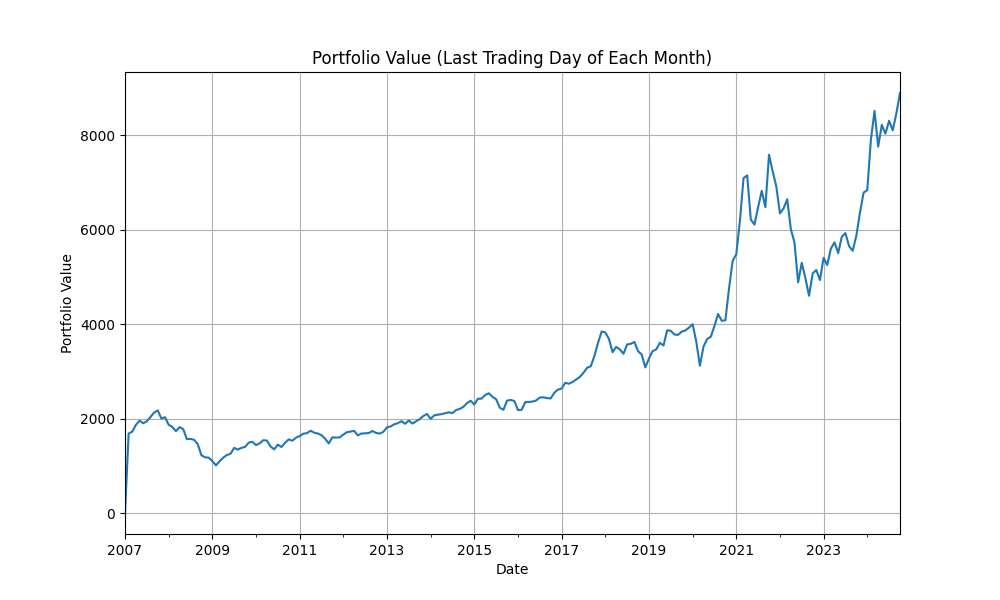
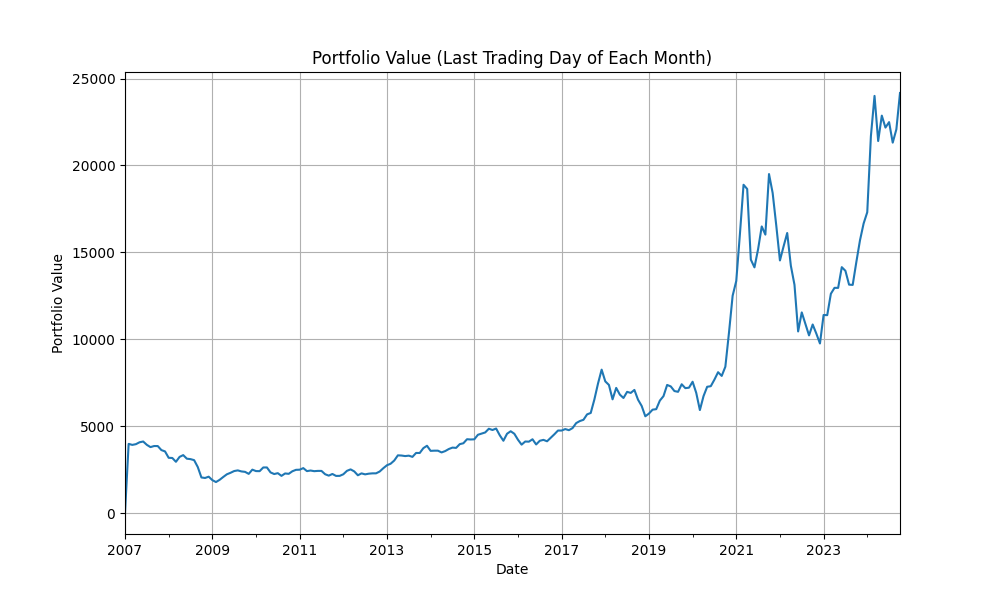
backtest fixed invest

diff --git a/backtest.py b/backtest.py
@@ -2,119 +2,238 @@ import yfinance as yf
 import pandas as pd
 import numpy as np
 import matplotlib.pyplot as plt
+import json
+from numpy_financial import irr
+import re
+# Load portfolio configuration from JSON file
+with open('config.json', 'r') as file:
+    portfolio_config = json.load(file)
 
 # Define debug log function
 def debug_log(message):
     print(f"[DEBUG] {message}")
 
+
 # Download data
-symbols = ['^GSPC', '^DJI', 'QQQ', 'BTC-USD',  'GLD', 'TLT', '000001.SS', 'SPY', 'VTI', 'VNQ', 'DBC', 'XLY']  # Add selected assets
-prices = {}
+def download_data(symbols, start_date, end_date):
+    prices = {}
+    for symbol in symbols:
+        data = yf.download(symbol, start=start_date, end=end_date)
+        prices[symbol] = data['Adj Close']
+        
+        # 打印每个资产的最早交易日期
+        earliest_date = data.index.min()
+        debug_log(f"Asset: {symbol} - Earliest Trading Date: {earliest_date}")
+    
+    return prices
 
-debug_log("Starting to download data...")
-for symbol in symbols:
-    debug_log(f"Downloading data for {symbol}...")
-    data = yf.download(symbol, start='2007-01-01', end='2024-10-31')
-    prices[symbol] = data['Adj Close']  # Only take adjusted close prices
-    debug_log(f"{symbol} data download complete, length of data: {len(data)}")
 
-# Get the last trading day of each month
-last_trading_days = prices['^GSPC'].resample('M').last().index  # Get the last trading day of each month
+# 计算总投入和总回报
+def calculate_total_investment_and_return(portfolio_value, monthly_investment):
+    # 计算投资的月份数
+    investment_months = len(portfolio_value)
+    
+    # 总投入 = 每月投资额 * 投资的月份数
+    total_investment = monthly_investment * investment_months
+    
+    # 总回报 = 最终组合的价值 - 总投入
+    total_value = portfolio_value.iloc[-1]  # 最终组合的资产总值
+    total_return = total_value - total_investment  # 总回报
+    
+    return total_investment, total_return
 
-# Initialize the DataFrame for monthly closing prices
-monthly_investment_df = pd.DataFrame(index=last_trading_days)
+# Calculate money-weighted return (MWR)
+def calculate_money_weighted_return(portfolio_value, investment_amounts, investment_dates):
+    cash_flows = [-amount for amount in investment_amounts]  # Cash flows are negative for investments
+    cash_flows.append(portfolio_value[-1])  # Final cash flow is the portfolio value
+    # 将最后一个日期转换为 DatetimeIndex，然后追加
+    cash_flow_dates = investment_dates.append(pd.to_datetime([portfolio_value.index[-1]]))  # 使用列表包裹最后一个日期
 
-debug_log("Starting to calculate the last trading day close prices for each month...")
-for symbol in symbols:
-    try:
-        debug_log(f"Calculating the monthly last trading day close price for {symbol}...")
+    return irr(cash_flows)
+
+# Calculate time-weighted return (TWR)
+def calculate_time_weighted_return(portfolio_value):
+    time_weighted_return = 1.0
+    for i in range(1, len(portfolio_value)):
+        period_return = portfolio_value.iloc[i] / portfolio_value.iloc[i-1] - 1
+        time_weighted_return *= (1 + period_return)
+    return time_weighted_return - 1
+
+# Calculate monthly close
+def calculate_monthly_close(prices, symbols):
+    last_trading_days = prices[symbols[0]].resample('M').last().index
+    monthly_investment_df = pd.DataFrame(index=last_trading_days)
+    for symbol in symbols:
         monthly_close = prices[symbol].resample('M').last()
         monthly_investment_df[symbol + ' Monthly Close'] = monthly_close
-        debug_log(f"{symbol} monthly last trading day close price calculation complete, first 5 rows:\n{monthly_close.head()}")
-    except Exception as e:
-        debug_log(f"Error processing {symbol}: {e}")
+    return monthly_investment_df
 
-# Calculate portfolio value
-investment_ratios = {
-    '^GSPC': 0.10,    # S&P 500
-    '^DJI': 0.10,     # Dow Jones
-    'QQQ': 0.10,      # Nasdaq 100
-    'BTC-USD': 0.05,  # Bitcoin
-    'GLD': 0.05,      # Gold
-    'TLT': 0.05,      # US Long-Term Treasuries
-    '000001.SS': 0.10, # Shanghai Composite Index
-    'SPY': 0.10,      # SPDR S&P 500 ETF
-    'VTI': 0.05,      # Vanguard Total Stock Market ETF
-    'VNQ': 0.10,      # Vanguard Real Estate ETF
-    'DBC': 0.05,      # Invesco DB Commodity Index Tracking Fund (Commodities)
-    'XLY': 0.05,      # Consumer discretionary sector (used as a representative for tech and consumer goods ETFs)
-}
+# Calculate portfolio value with monthly investment
+def calculate_portfolio_value_with_monthly_investment(monthly_investment_df, investment_ratios, last_trading_days, monthly_investment):
+    portfolio_value = pd.Series(index=last_trading_days, dtype=np.float64)
+    portfolio_value.iloc[0] = 1  # Initial investment is 1 (can be replaced with another initial amount)
+    
+    # Track the holdings of each asset
+    holdings = {symbol: 0 for symbol in investment_ratios}
 
-debug_log("Starting to calculate portfolio value...")
+    for i in range(1, len(last_trading_days)):
+        # Monthly investment contribution
+        monthly_contribution = monthly_investment
+        
+        # Distribute the monthly investment according to the asset ratios
+        for symbol, ratio in investment_ratios.items():
+            monthly_close = monthly_investment_df[symbol + ' Monthly Close'].iloc[i]
+            if pd.notna(monthly_close):
+                contribution = monthly_contribution * ratio  # Amount to invest in this asset
+                holdings[symbol] += contribution / monthly_close  # Update the holdings
 
-# Set initial capital
-portfolio_value = pd.Series(index=last_trading_days, dtype=np.float64)
-portfolio_value.iloc[0] = 1  # Initial investment is 1 (can be replaced with another initial amount)
+        # Calculate total portfolio value
+        total_value = sum(holdings[symbol] * monthly_investment_df[symbol + ' Monthly Close'].iloc[i] for symbol in investment_ratios)
+        portfolio_value.iloc[i] = total_value
 
-# Calculate portfolio value at the last trading day of each month
-for i in range(1, len(last_trading_days)):
-    value = 0
-    for symbol, ratio in investment_ratios.items():
-        monthly_close = monthly_investment_df[symbol + ' Monthly Close'].iloc[i]
-        if pd.notna(monthly_close):
-            value += ratio * monthly_close
-    portfolio_value.iloc[i] = value
-    debug_log(f"Portfolio value on {last_trading_days[i]}: {portfolio_value.iloc[i]}")
+    return portfolio_value, holdings  # Return portfolio value and holdings
+    
 
-# Plot and save the portfolio value graph
-debug_log("Plotting portfolio value graph...")
+
+# Performance metrics calculations
+def calculate_performance_metrics(portfolio_value, risk_free_rate):
+    debug_log(f"Risk-Free Rate: {risk_free_rate * 100}%")
+    total_return = (portfolio_value[-1] / portfolio_value[0]) - 1
+    annualized_return = (1 + total_return) ** (1 / len(portfolio_value)) - 1
+    drawdown = portfolio_value / portfolio_value.cummax() - 1
+    max_drawdown = drawdown.min()
+
+    daily_returns = portfolio_value.pct_change().dropna()
+    annualized_volatility = daily_returns.std() * np.sqrt(252)
+    debug_log(f"Annualized volatility: {annualized_volatility}")
+    debug_log(f"annualized return: {annualized_return}")
+    debug_log(f"risk_free_rate: {risk_free_rate}")
+    sharpe_ratio = (annualized_return - risk_free_rate) / annualized_volatility
+
+    drawdown_start = drawdown.idxmax()
+    drawdown_end = drawdown.idxmin()
+    pre_drawdown_peak = portfolio_value[:drawdown_end].max()
+    recovery_candidates = portfolio_value[drawdown_end:][portfolio_value[drawdown_end:] >= pre_drawdown_peak]
+    if not recovery_candidates.empty:
+        recovery_start = recovery_candidates.index[0]
+    else:
+        # 处理没有恢复的情况，例如设为NaT
+        recovery_start = pd.NaT
+
+    drawdown_recovery_time = recovery_start - drawdown_end
+
+    debug_log(f"Total return: {total_return:.2%}")
+    debug_log(f"Annualized return: {annualized_return:.2%}")
+    debug_log(f"Maximum drawdown: {max_drawdown:.2%}")
+    debug_log(f"Sharpe ratio: {sharpe_ratio:.2f}")
+    debug_log(f"Drawdown recovery time: {drawdown_recovery_time.days} days")
+    debug_log(f"Maximum drawdown start date: {drawdown_start}")
+    debug_log(f"Maximum drawdown end date: {drawdown_end}")
+    debug_log(f"Recovery start date: {recovery_start}")
+
+    return total_return, annualized_return, max_drawdown, sharpe_ratio, drawdown_recovery_time
+
+
+def generate_safe_filename(config):
+    assets_str = '_'.join(config['assets'].keys())  # Join asset symbols with '_'
+    risk_free_str = f"rf{int(config['risk_free_rate'] * 100)}"  # Risk-free rate as percentage
+    # Create a filename string with assets and risk-free rate
+    filename = f"portfolio_{assets_str}_{risk_free_str}.png"
+    # Sanitize the filename to remove any invalid characters for OS
+    safe_filename = re.sub(r'[\\/*?:"<>|]', '_', filename)
+    return safe_filename
+
+# Use the function to generate a filename
+plot_filename = generate_safe_filename(portfolio_config)
+
+# Main execution
+symbols = list(portfolio_config['assets'].keys())
+prices = download_data(symbols, portfolio_config['start_date'], portfolio_config['end_date'])
+monthly_investment_df = calculate_monthly_close(prices, symbols)
+
+# Calculate portfolio value with monthly investment
+portfolio_value, holdings = calculate_portfolio_value_with_monthly_investment(
+    monthly_investment_df, 
+    portfolio_config['assets'], 
+    monthly_investment_df.index, 
+    portfolio_config['total_investment']  # Monthly investment from config file
+)
+
+# Calculate total investment and return
+total_investment, total_return = calculate_total_investment_and_return(portfolio_value, portfolio_config['total_investment'])
+debug_log(f"Total Investment: ${total_investment:.2f}")
+debug_log(f"Total Return: ${total_return:.2f}")
+
+# Calculate money-weighted return (MWR)
+investment_amounts = [portfolio_config['total_investment'] * ratio for ratio in portfolio_config['assets'].values()]
+investment_dates = monthly_investment_df.index
+mwr = calculate_money_weighted_return(portfolio_value, investment_amounts, investment_dates)
+debug_log(f"Money-Weighted Return (MWR): {mwr:.2%}")
+
+# Calculate time-weighted return (TWR)
+twr = calculate_time_weighted_return(portfolio_value)
+debug_log(f"Time-Weighted Return (TWR): {twr:.2%}")
+
+# Calculate Sharpe Ratio
+sharpe_ratio = calculate_performance_metrics(portfolio_value, portfolio_config['risk_free_rate'])[3]
+debug_log(f"Sharpe Ratio: {sharpe_ratio:.2f}")
+
+# Output final holdings (shares)
+debug_log("Final Asset Holdings (Shares):")
+for symbol, shares in holdings.items():
+    debug_log(f"Asset: {symbol} - Shares: {shares:.2f}")
+
+# Plotting and saving the portfolio value
 plt.figure(figsize=(10, 6))
 portfolio_value.plot()
 plt.title('Portfolio Value (Last Trading Day of Each Month)')
 plt.xlabel('Date')
 plt.ylabel('Portfolio Value')
 plt.grid(True)
-plt.savefig('portfolio_value.png')
-debug_log("Portfolio value graph saved as 'portfolio_value.png'")
 
-# Calculate performance metrics
-debug_log("Calculating performance metrics...")
+# Config text content
+# Config text content (continued)
+config_text = f"""
+Assets:
+{json.dumps(portfolio_config['assets'], indent=2)}
 
-# Total return
-total_return = (portfolio_value[-1] / portfolio_value[0]) - 1
+Start Date: {portfolio_config['start_date']}
+End Date: {portfolio_config['end_date']}
+Risk-Free Rate: {portfolio_config['risk_free_rate']*100}%
 
-# Annualized return
-annualized_return = (1 + total_return) ** (1 / len(portfolio_value)) - 1
+Total Investment: ${total_investment:.2f}
+Total Return: ${total_return:.2f}
 
-# Maximum drawdown
-drawdown = portfolio_value / portfolio_value.cummax() - 1
-max_drawdown = drawdown.min()
+Money-Weighted Return (MWR): {mwr:.2%}
+Time-Weighted Return (TWR): {twr:.2%}
+Sharpe Ratio: {sharpe_ratio:.2f}
+"""
 
-# Sharpe ratio calculation
-risk_free_rate = 0.03  # Assume the risk-free rate is 0.03
-daily_returns = portfolio_value.pct_change().dropna()  # Daily returns
-annualized_volatility = daily_returns.std() * np.sqrt(252)  # Annualized volatility
-sharpe_ratio = (annualized_return - risk_free_rate) / annualized_volatility  # Sharpe ratio
+# Adding config text to the chart
+plt.text(0.02, 0.02, config_text, ha='left', va='bottom', fontsize=10, transform=plt.gca().transAxes, 
+         bbox=dict(facecolor='white', alpha=0.7, edgecolor='black', boxstyle='round,pad=0.5'))
 
-# Find the start and end dates of the maximum drawdown
-drawdown_start = drawdown.idxmax()  # Start date of the maximum drawdown
-# Calculate drawdown recovery time
-drawdown_end = drawdown.idxmin()  # End date of the maximum drawdown
-# Find the highest point before the maximum drawdown
-pre_drawdown_peak = portfolio_value[:drawdown_end].max()
-# Find when the portfolio value recovered to the previous peak after the drawdown
-recovery_start = portfolio_value[drawdown_end:].loc[portfolio_value[drawdown_end:] >= pre_drawdown_peak].index[0]
+# Save the plot
+plt.savefig(plot_filename)
+debug_log("Portfolio value graph with configuration saved as 'portfolio_value_with_config.png'")
 
-# Calculate recovery time
-drawdown_recovery_time = recovery_start - drawdown_end  # Recovery time
+# Display the plot
+plt.show()
 
-debug_log(f"Total return: {total_return:.2%}")
-debug_log(f"Annualized return: {annualized_return:.2%}")
-debug_log(f"Maximum drawdown: {max_drawdown:.2%}")
-debug_log(f"Sharpe ratio: {sharpe_ratio:.2f}")
-debug_log(f"Drawdown recovery time: {drawdown_recovery_time.days} days")
+# Saving final report to a file
+with open('final_report.txt', 'w') as report_file:
+    report_file.write("Final Portfolio Report\n")
+    report_file.write("=====================\n\n")
+    report_file.write(f"Start Date: {portfolio_config['start_date']}\n")
+    report_file.write(f"End Date: {portfolio_config['end_date']}\n")
+    report_file.write(f"Risk-Free Rate: {portfolio_config['risk_free_rate']*100}%\n\n")
+    report_file.write(f"Total Investment: ${total_investment:.2f}\n")
+    report_file.write(f"Total Return: ${total_return:.2f}\n")
+    report_file.write(f"Money-Weighted Return (MWR): {mwr:.2%}\n")
+    report_file.write(f"Time-Weighted Return (TWR): {twr:.2%}\n")
+    report_file.write(f"Sharpe Ratio: {sharpe_ratio:.2f}\n\n")
+    report_file.write("Final Asset Holdings (Shares):\n")
+    for symbol, shares in holdings.items():
+        report_file.write(f"{symbol}: {shares:.2f} shares\n")
 
-# Output the specific dates for the maximum drawdown
-debug_log(f"Maximum drawdown start date: {drawdown_start}")
-debug_log(f"Maximum drawdown end date: {drawdown_end}")
-debug_log(f"Recovery start date: {recovery_start}")
+debug_log("Final report saved as 'final_report.txt'")

diff --git a/buy.py b/buy.py
@@ -1,0 +1,65 @@
+import json
+import yfinance as yf
+
+# 从配置文件加载投资组合配置
+def load_portfolio_config(file_path):
+    with open(file_path, 'r') as file:
+        return json.load(file)
+
+# 获取当前的资产价格
+def get_asset_price(symbol):
+    print(f"[DEBUG] 正在下载 {symbol} 的数据...")
+    data = yf.download(symbol, period='1d', interval='1d')
+    
+    # 打印下载的数据以调试
+    print(f"[DEBUG] 下载的 {symbol} 数据: \n{data.head()}")  # 查看下载的数据，确保获取正确的列
+    
+    # 获取最新价格
+    price = data['Adj Close'].iloc[-1].item()  # 使用 .item() 获取单一值
+    print(f"[DEBUG] {symbol} 最新价格: {price}")  # 确保输出的是单一的价格
+    
+    return price
+
+# 计算每个资产需要购买的股数
+def calculate_shares_to_buy(assets, total_investment):
+    investment = {asset: total_investment * ratio for asset, ratio in assets.items()}  # 计算每个资产的投资金额
+    shares_to_buy = {}
+
+    # 计算每个资产的购买数量（股数或份额）
+    for asset, amount in investment.items():
+        price = get_asset_price(asset)  # 获取单一价格
+        shares = amount / price  # 每个资产需要购买的份额数
+        shares_to_buy[asset] = {
+            'investment': amount,
+            'price': price,
+            'shares': shares
+        }
+    
+    return shares_to_buy
+
+# 打印每个资产购买的数量
+def print_purchase_details(shares_to_buy):
+    for asset, data in shares_to_buy.items():
+        print(f"资产: {asset}")
+        print(f"投资金额: ${data['investment']:.2f}")
+        print(f"当前价格: ${data['price']:.2f}")  # 格式化价格，确保 'price' 是单一数值
+        print(f"需要购买的数量: {data['shares']:.2f} 份")
+        print("-" * 40)
+
+# 主程序
+def main():
+    # 从 config.json 文件加载配置
+    portfolio_config = load_portfolio_config('config.json')
+
+    # 从配置中获取投资比例和总定投金额
+    assets = portfolio_config["assets"]
+    total_investment = portfolio_config["total_investment"]
+
+    # 计算每个资产需要购买的股数
+    shares_to_buy = calculate_shares_to_buy(assets, total_investment)
+
+    # 输出购买详情
+    print_purchase_details(shares_to_buy)
+
+if __name__ == "__main__":
+    main()
